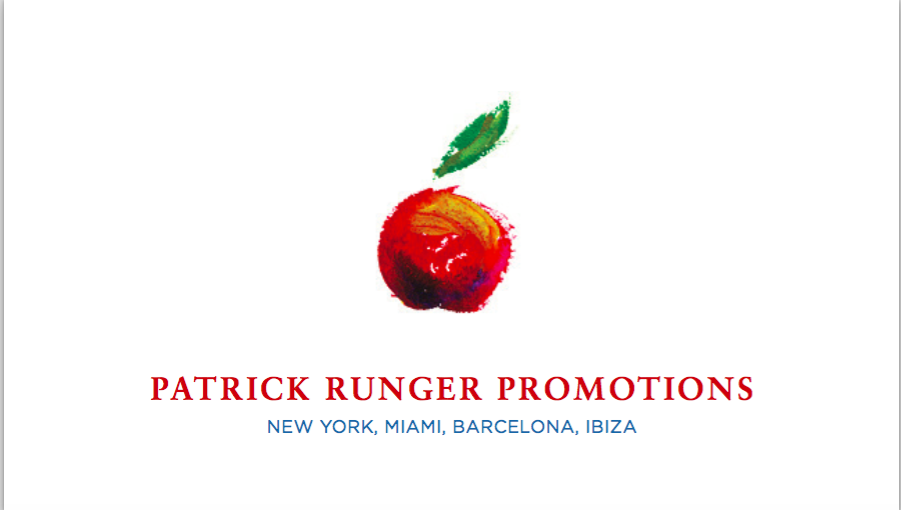
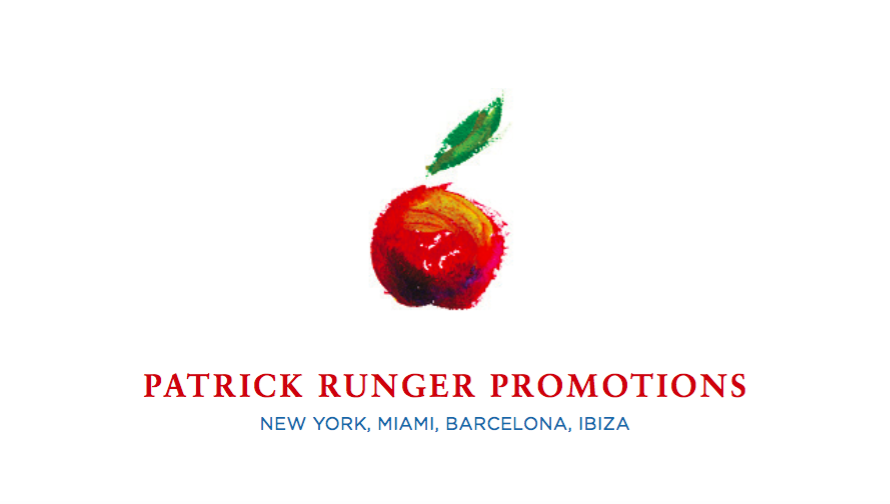
Slurp commit

Changed region(s): [[0.1517, 0.7143, 0.8494, 0.8631], [0.3944, 0.1786, 0.5764, 0.625], [0.0, 0.0, 0.0303, 1.0]]

diff --git a/css/grayscale.min.css b/css/grayscale.min.css
@@ -2,4 +2,4 @@
  * Start Bootstrap - Grayscale v3.3.7+1 (http://startbootstrap.com/template-overviews/grayscale)
  * Copyright 2013-2016 Start Bootstrap
  * Licensed under MIT (https://github.com/BlackrockDigital/startbootstrap/blob/gh-pages/LICENSE)
- */body,html{height:100%;width:100%}.navbar-custom,body{background-color:#000}.intro,body,html{width:100%}body{font-family:Lora,"Helvetica Neue",Helvetica,Arial,sans-serif;color:#fff;webkit-tap-highlight-color:rgba(255,255,255,.2)}.btn,.navbar-custom,h1,h2,h3,h4,h5,h6{text-transform:uppercase;font-family:Montserrat,"Helvetica Neue",Helvetica,Arial,sans-serif}h1,h2,h3,h4,h5,h6{margin:0 0 35px;font-weight:700;letter-spacing:1px}p{margin:0 0 25px;font-size:18px;line-height:1.5}@media (min-width:768px){p{margin:0 0 35px;font-size:20px;line-height:1.6}}a{color:#42DCA3;-webkit-transition:all .2s ease-in-out;-moz-transition:all .2s ease-in-out;transition:all .2s ease-in-out}a:focus,a:hover{text-decoration:none;color:#1d9b6c}.light{font-weight:400}.navbar-custom{margin-bottom:0;border-bottom:1px solid rgba(255,255,255,.3)}.navbar-custom .navbar-toggle{color:#fff;background-color:rgba(255,255,255,.2);font-size:12px}.navbar-custom .nav li a:active,.navbar-custom .nav li a:focus,.navbar-custom .nav li a:hover{background-color:transparent;outline:0}.navbar-custom .navbar-toggle:active,.navbar-custom .navbar-toggle:focus{outline:0}.navbar-custom .navbar-brand{font-weight:700}.navbar-custom .navbar-brand:focus{outline:0}.navbar-custom a{color:#fff}.navbar-custom .nav li a{-webkit-transition:background .3s ease-in-out;-moz-transition:background .3s ease-in-out;transition:background .3s ease-in-out}.navbar-custom .nav li a:hover{color:rgba(255,255,255,.8)}.navbar-custom .nav li.active{outline:0}.navbar-custom .nav li.active a{background-color:rgba(255,255,255,.3)}.navbar-custom .nav li.active a:hover{color:#fff}@media (min-width:768px){.navbar-custom{padding:20px 0;border-bottom:none;letter-spacing:1px;background:0 0;-webkit-transition:background .5s ease-in-out,padding .5s ease-in-out;-moz-transition:background .5s ease-in-out,padding .5s ease-in-out;transition:background .5s ease-in-out,padding .5s ease-in-out}.navbar-custom.top-nav-collapse{padding:0;background:#000;border-bottom:1px solid rgba(255,255,255,.3)}}.intro{display:table;height:auto;padding:100px 0;text-align:center;color:#fff;background:url(../img/intro-bg.jpg) bottom center no-repeat #000;-webkit-background-size:cover;-moz-background-size:cover;background-size:cover;-o-background-size:cover}.intro .intro-body{display:table-cell;vertical-align:middle}.intro .intro-body .brand-heading{font-size:40px}.intro .intro-body .intro-text{font-size:18px}@media (min-width:768px){.intro{height:100%;padding:0}.intro .intro-body .brand-heading{font-size:100px}.intro .intro-body .intro-text{font-size:26px}}.btn-circle{width:70px;height:70px;margin-top:15px;padding:7px 16px;border:2px solid #fff;border-radius:100%!important;font-size:40px;color:#fff;background:0 0;-webkit-transition:background .3s ease-in-out;-moz-transition:background .3s ease-in-out;transition:background .3s ease-in-out}.btn-circle:focus,.btn-circle:hover{outline:0;color:#fff;background:rgba(255,255,255,.1)}.btn-circle i.animated{-webkit-transition-property:-webkit-transform;-webkit-transition-duration:1s;-moz-transition-property:-moz-transform;-moz-transition-duration:1s}.btn-circle:hover i.animated{-webkit-animation-name:pulse;-moz-animation-name:pulse;-webkit-animation-duration:1.5s;-moz-animation-duration:1.5s;-webkit-animation-iteration-count:infinite;-moz-animation-iteration-count:infinite;-webkit-animation-timing-function:linear;-moz-animation-timing-function:linear}@-webkit-keyframes pulse{0%,100%{-webkit-transform:scale(1);transform:scale(1)}50%{-webkit-transform:scale(1.2);transform:scale(1.2)}}@-moz-keyframes pulse{0%,100%{-moz-transform:scale(1);transform:scale(1)}50%{-moz-transform:scale(1.2);transform:scale(1.2)}}.content-section{padding-top:100px}.download-section{width:100%;padding:50px 0;color:#fff;background:url(../img/downloads-bg.jpg) center center no-repeat #000;-webkit-background-size:cover;-moz-background-size:cover;background-size:cover;-o-background-size:cover}#map{width:100%;height:200px;margin-top:100px}@media (min-width:767px){.content-section{padding-top:250px}.download-section{padding:100px 0}#map{height:400px;margin-top:250px}}.btn{font-weight:400;-webkit-transition:all .3s ease-in-out;-moz-transition:all .3s ease-in-out;transition:all .3s ease-in-out;border-radius:0}.btn-default{border:1px solid #42DCA3;color:#42DCA3;background-color:transparent}.btn-default:focus,.btn-default:hover{border:1px solid #42DCA3;outline:0;color:#000;background-color:#42DCA3}ul.banner-social-buttons{margin-top:0}@media (max-width:1199px){ul.banner-social-buttons{margin-top:15px}}@media (max-width:767px){ul.banner-social-buttons li{display:block;margin-bottom:20px;padding:0}ul.banner-social-buttons li:last-child{margin-bottom:0}}footer{padding:50px 0}footer p{margin:0}::-moz-selection{text-shadow:none;background:#fcfcfc;background:rgba(255,255,255,.2)}::selection{text-shadow:none;background:#fcfcfc;background:rgba(255,255,255,.2)}img::selection{background:0 0}img::-moz-selection{background:0 0}
+ */body,html{height:100%;width:100%}.navbar-custom,body{background-color:#000}.intro,body,html{width:100%}body{font-family:Lora,"Helvetica Neue",Helvetica,Arial,sans-serif;color:#fff;webkit-tap-highlight-color:rgba(255,255,255,.2)}.btn,.navbar-custom,h1,h2,h3,h4,h5,h6{text-transform:uppercase;font-family:Montserrat,"Helvetica Neue",Helvetica,Arial,sans-serif}h1,h2,h3,h4,h5,h6{margin:0 0 35px;font-weight:700;letter-spacing:1px}p{margin:0 0 25px;font-size:18px;line-height:1.5}@media (min-width:768px){p{margin:0 0 35px;font-size:20px;line-height:1.6}}a{color:#42DCA3;-webkit-transition:all .2s ease-in-out;-moz-transition:all .2s ease-in-out;transition:all .2s ease-in-out}a:focus,a:hover{text-decoration:none;color:#1d9b6c}.light{font-weight:400}.navbar-custom{margin-bottom:0;border-bottom:1px solid rgba(255,255,255,.3)}.navbar-custom .navbar-toggle{color:#fff;background-color:rgba(255,255,255,.2);font-size:12px}.navbar-custom .nav li a:active,.navbar-custom .nav li a:focus,.navbar-custom .nav li a:hover{background-color:transparent;outline:0}.navbar-custom .navbar-toggle:active,.navbar-custom .navbar-toggle:focus{outline:0}.navbar-custom .navbar-brand{font-weight:700}.navbar-custom .navbar-brand:focus{outline:0}.navbar-custom a{color:#fff}.navbar-custom .nav li a{-webkit-transition:background .3s ease-in-out;-moz-transition:background .3s ease-in-out;transition:background .3s ease-in-out}.navbar-custom .nav li a:hover{color:rgba(255,255,255,.8)}.navbar-custom .nav li.active{outline:0}.navbar-custom .nav li.active a{background-color:rgba(255,255,255,.3)}.navbar-custom .nav li.active a:hover{color:#fff}@media (min-width:768px){.navbar-custom{padding:20px 0;border-bottom:none;letter-spacing:1px;background:0 0;-webkit-transition:background .5s ease-in-out,padding .5s ease-in-out;-moz-transition:background .5s ease-in-out,padding .5s ease-in-out;transition:background .5s ease-in-out,padding .5s ease-in-out}.navbar-custom.top-nav-collapse{padding:0;background:#000;border-bottom:1px solid rgba(255,255,255,.3)}}.intro{display:table;height:auto;padding:100px 0;text-align:center;color:#fff;background:url(../img/intro-bg.jpg) bottom center no-repeat #000;-webkit-background-size:cover;-moz-background-size:cover;background-size:cover;-o-background-size:cover}.intro .intro-body{display:table-cell;vertical-align:middle}.intro .intro-body .brand-heading{font-size:40px}.intro .intro-body .intro-text{font-size:18px}@media (min-width:768px){.intro{height:100%;padding:0}.intro .intro-body .brand-heading{font-size:100px}.intro .intro-body .intro-text{font-size:26px}}.btn-circle{width:70px;height:70px;margin-top:15px;padding:7px 16px;border:2px solid #fff;border-radius:100%!important;font-size:40px;color:#fff;background:0 0;-webkit-transition:background .3s ease-in-out;-moz-transition:background .3s ease-in-out;transition:background .3s ease-in-out}.btn-circle:focus,.btn-circle:hover{outline:0;color:#fff;background:rgba(255,255,255,.1)}.btn-circle i.animated{-webkit-transition-property:-webkit-transform;-webkit-transition-duration:1s;-moz-transition-property:-moz-transform;-moz-transition-duration:1s}.btn-circle:hover i.animated{-webkit-animation-name:pulse;-moz-animation-name:pulse;-webkit-animation-duration:1.5s;-moz-animation-duration:1.5s;-webkit-animation-iteration-count:infinite;-moz-animation-iteration-count:infinite;-webkit-animation-timing-function:linear;-moz-animation-timing-function:linear}@-webkit-keyframes pulse{0%,100%{-webkit-transform:scale(1);transform:scale(1)}50%{-webkit-transform:scale(1.2);transform:scale(1.2)}}@-moz-keyframes pulse{0%,100%{-moz-transform:scale(1);transform:scale(1)}50%{-moz-transform:scale(1.2);transform:scale(1.2)}}.content-section{padding-top:100px}.download-section{width:100%;padding:50px 0;color:#fff;background:url(../img/red-club.png) center center no-repeat #000;-webkit-background-size:cover;-moz-background-size:cover;background-size:cover;-o-background-size:cover}#map{width:100%;height:200px;margin-top:100px}@media (min-width:767px){.content-section{padding-top:250px}.download-section{padding:100px 0}#map{height:400px;margin-top:250px}}.btn{font-weight:400;-webkit-transition:all .3s ease-in-out;-moz-transition:all .3s ease-in-out;transition:all .3s ease-in-out;border-radius:0}.btn-default{border:1px solid #42DCA3;color:#42DCA3;background-color:transparent}.btn-default:focus,.btn-default:hover{border:1px solid #42DCA3;outline:0;color:#000;background-color:#42DCA3}ul.banner-social-buttons{margin-top:0}@media (max-width:1199px){ul.banner-social-buttons{margin-top:15px}}@media (max-width:767px){ul.banner-social-buttons li{display:block;margin-bottom:20px;padding:0}ul.banner-social-buttons li:last-child{margin-bottom:0}}footer{padding:50px 0}footer p{margin:0}::-moz-selection{text-shadow:none;background:#fcfcfc;background:rgba(255,255,255,.2)}::selection{text-shadow:none;background:#fcfcfc;background:rgba(255,255,255,.2)}img::selection{background:0 0}img::-moz-selection{background:0 0}

diff --git a/index.html b/index.html
@@ -24,6 +24,9 @@
   <!-- Theme CSS -->
   <link href="css/grayscale.min.css" rel="stylesheet">
 
+  <!-- Custom CSS -->
+  <link href="css/css.css" rel="stylesheet">
+
   <!-- HTML5 Shim and Respond.js IE8 support of HTML5 elements and media queries -->
   <!-- WARNING: Respond.js doesn't work if you view the page via file:// -->
   <!--[if lt IE 9]>
@@ -42,7 +45,8 @@
           Menu <i class="fa fa-bars"></i>
         </button>
         <a class="navbar-brand page-scroll" href="#page-top">
-          <i class="fa fa-play-circle"></i> <span class="light">Patrick</span> Runger <span class="light">Promotions</span>
+          <img id='logo' src="img/apple-logo.png">
+          <span class="light">Patrick</span> Runger <span class="light">Promotions</span>
         </a>
       </div>
 
@@ -90,10 +94,29 @@
   <section id="about" class="container content-section text-center">
     <div class="row">
       <div class="col-lg-8 col-lg-offset-2">
-        <h2>Patrick Runger</h2>
-        <p>Grayscale is a free Bootstrap 3 theme created by Start Bootstrap. It can be yours right now, simply download the template on <a href="http://startbootstrap.com/template-overviews/grayscale/">the preview page</a>. The theme is open source, and you can use it for any purpose, personal or commercial.</p>
-        <p>This theme features stock photos by <a href="http://gratisography.com/">Gratisography</a> along with a custom Google Maps skin courtesy of <a href="http://snazzymaps.com/">Snazzy Maps</a>.</p>
-        <p>Grayscale includes full HTML, CSS, and custom JavaScript files along with LESS files for easy customization.</p>
+
+        <h2>About Me</h2>
+
+        <p>
+
+          Born and raised in Chicago and a Johns Hopkins University Alumnus. Now I am a professional
+          event planner and FREE VIP table host in New York City and the Hamptons with seasonal work
+          in Miami, Barcelona, and Ibiza.
+
+        </p>
+
+        <p>
+
+          Contact me for Birthday parties, corporate events, and access to exclusive events with the
+          hottest artists and DJs.
+
+        </p>
+
+        <p>
+
+          Check out my social media below for more info, upcoming events, and pictures!
+
+        </p>
       </div>
     </div>
   </section>
@@ -103,8 +126,7 @@
     <div class="download-section">
       <div class="container">
         <div>
-          <h2>Social Media</h2>
-          <img src="img/business-card.png" style="display: block; margin: 0 auto">
+          <img id='business-card' src="img/business-card.png">
         </div>
       </div>
     </div>
@@ -133,9 +155,6 @@
     </div>
   </section>
 
-  <!-- Map Section -->
-  <div id="map"></div>
-
   <!-- Footer -->
   <footer>
     <div class="container text-center">
@@ -151,9 +170,6 @@
 
   <!-- Plugin JavaScript -->
   <script src="https://cdnjs.cloudflare.com/ajax/libs/jquery-easing/1.3/jquery.easing.min.js"></script>
-
-  <!-- Google Maps API Key - Use your own API key to enable the map feature. More information on the Google Maps API can be found at https://developers.google.com/maps/ -->
-  <script type="text/javascript" src="https://maps.googleapis.com/maps/api/js?key=AIzaSyCRngKslUGJTlibkQ3FkfTxj3Xss1UlZDA&sensor=false"></script>
 
   <!-- Theme JavaScript -->
   <script src="js/grayscale.min.js"></script>

diff --git a/less/grayscale.less b/less/grayscale.less
@@ -240,7 +240,7 @@ a {
     width: 100%;
     padding: 50px 0;
     color: white;
-    background: url(../img/downloads-bg.jpg) no-repeat center center scroll;
+    background: url(../img/red-club.png) no-repeat center center scroll;
     background-color: black;
     -webkit-background-size: cover;
     -moz-background-size: cover;

diff --git a/sass/grayscale.scss b/sass/grayscale.scss
@@ -240,7 +240,7 @@ a {
     width: 100%;
     padding: 50px 0;
     color: white;
-    background: url(../img/downloads-bg.jpg) no-repeat center center scroll;
+    background: url(../img/red-club.png) no-repeat center center scroll;
     background-color: black;
     -webkit-background-size: cover;
     -moz-background-size: cover;

diff --git a/css/grayscale.css b/css/grayscale.css
@@ -224,7 +224,7 @@ a:focus {
   width: 100%;
   padding: 50px 0;
   color: white;
-  background: url(../img/downloads-bg.jpg) no-repeat center center scroll;
+  background: url(../img/red-club.png) no-repeat center center scroll;
   background-color: black;
   -webkit-background-size: cover;
   -moz-background-size: cover;

diff --git a/css/css.css b/css/css.css
@@ -1,0 +1,16 @@
+#logo {
+  width: 24px;
+  display: inline-block;
+  position: relative;
+  bottom: 2px;
+}
+
+#about p {
+  margin-bottom: 15px;
+}
+
+#business-card {
+  display: block;
+  margin: 0 auto;
+  max-width: 80%;
+}
